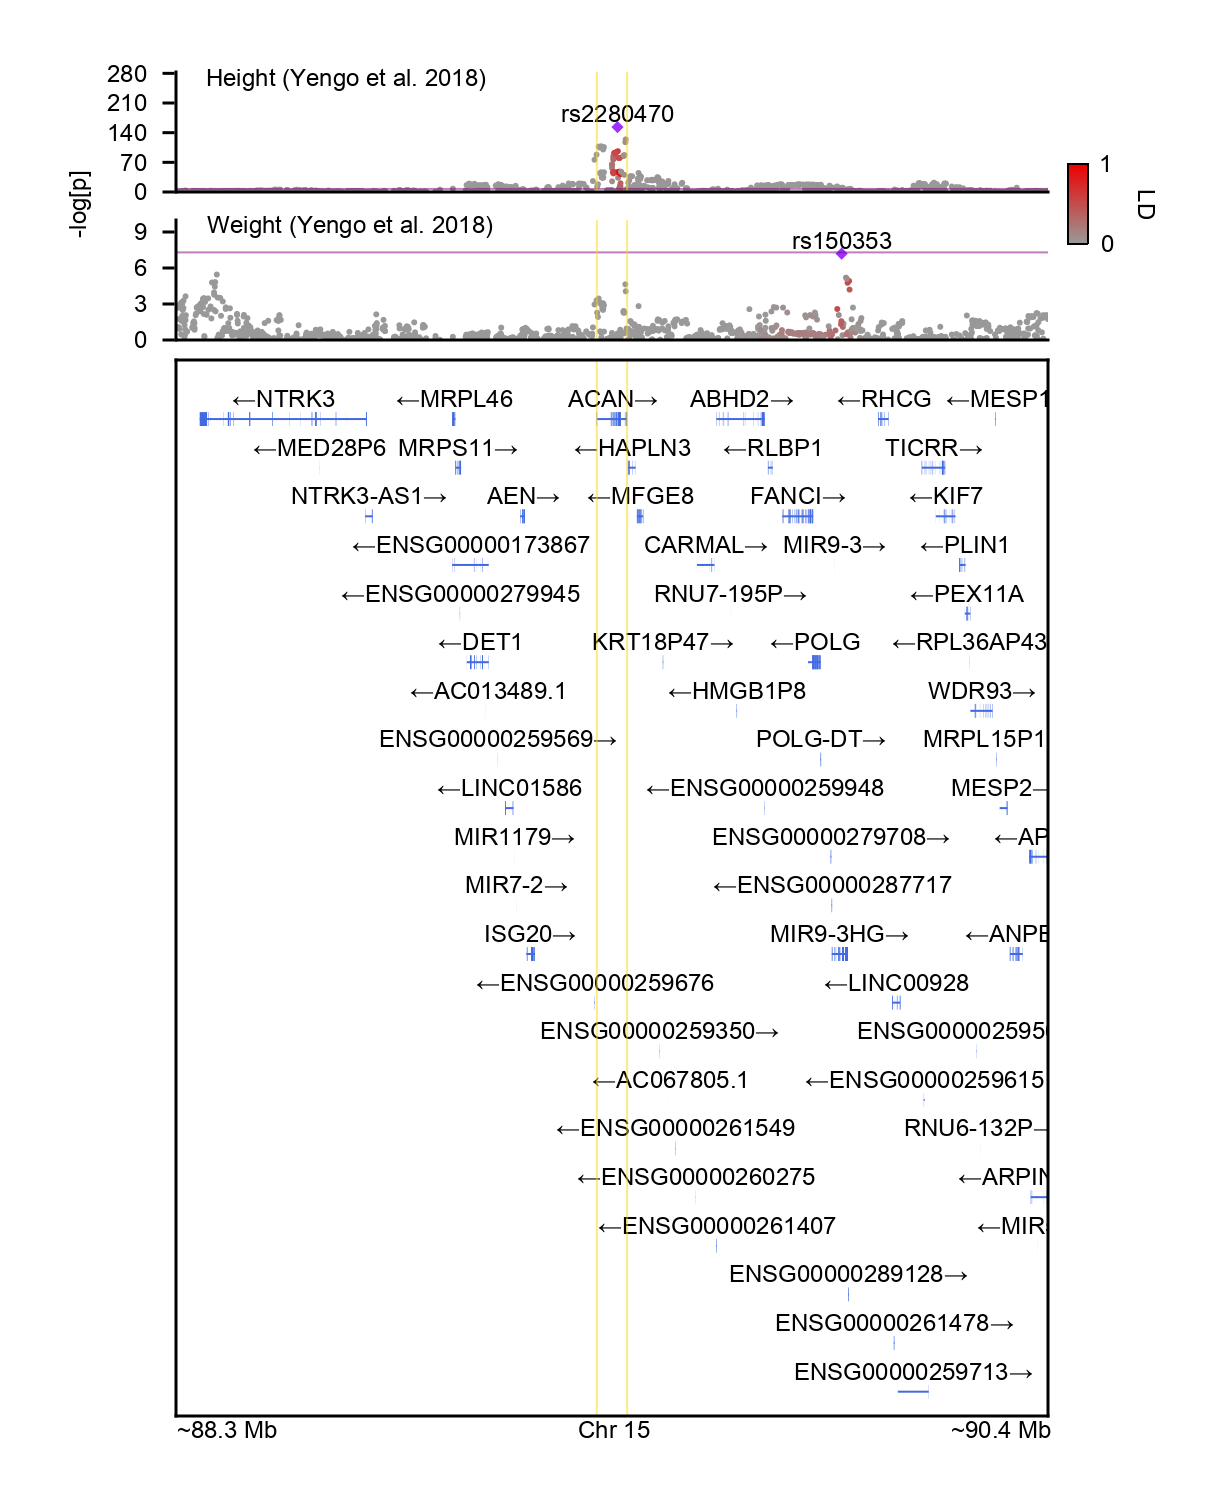
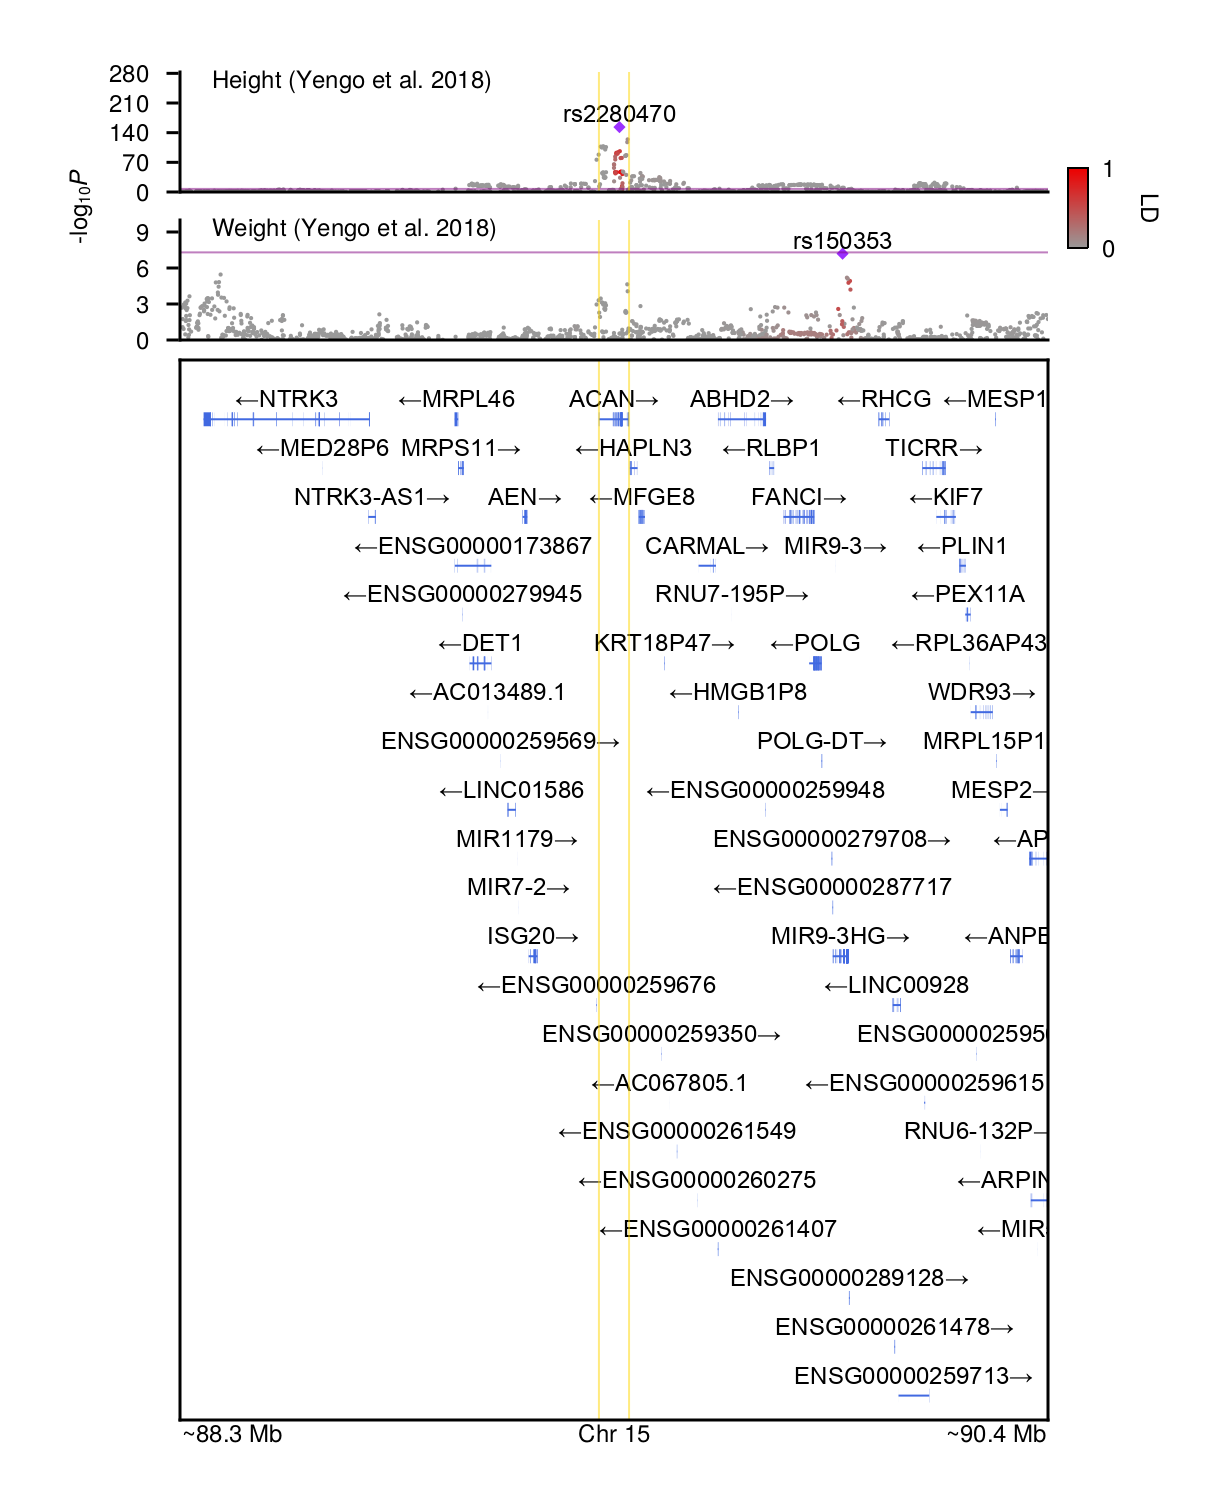
rich text

diff --git a/docs/src/examples/genes.md b/docs/src/examples/genes.md
@@ -23,7 +23,7 @@ set_theme!(font = "Arial")
 
 gene = "CACNA1G"
 chr, start, stop = GeneticsMakie.findgene(gene, gencode)
-f = Figure(resolution = (306, 792))
+f = Figure(size = (306, 792))
 ax = Axis(f[1, 1])
 ranges = [start - 1e5, stop + 1e5]
 rs = GeneticsMakie.plotgenes!(ax, chr, ranges[1], ranges[2], gencode)
@@ -36,7 +36,7 @@ f
 
 We can adjust the height of exons using the `height` keyword argument.
 ```julia
-f = Figure(resolution = (306, 792))
+f = Figure(size = (306, 792))
 ax = Axis(f[1, 1])
 rs = GeneticsMakie.plotgenes!(ax, chr, ranges[1], ranges[2], gencode; height = 0.1)
 GeneticsMakie.labelgenome(f[1, 1, Bottom()], chr, ranges[1], ranges[2])
@@ -48,7 +48,7 @@ f
 
 We can change the color of genes and text using the `genecolor` and `textcolor` keyword arguments, respectively.
 ```julia
-f = Figure(resolution = (306, 792))
+f = Figure(size = (306, 792))
 ax = Axis(f[1, 1])
 rs = GeneticsMakie.plotgenes!(ax, chr, ranges[1], ranges[2], gencode; height = 0.1, genecolor = :mediumorchid3, textcolor = :forestgreen)
 GeneticsMakie.labelgenome(f[1, 1, Bottom()], chr, ranges[1], ranges[2])
@@ -61,7 +61,7 @@ f
 Alternatively, we can visualize this locus by passing `gene` as a positional argument and 
 `window` as a keyword argument.
 ```julia
-f = Figure(resolution = (306, 792))
+f = Figure(size = (306, 792))
 ax = Axis(f[1, 1])
 rs = GeneticsMakie.plotgenes!(ax, gene, gencode; window = 1e5, height = 0.1, genecolor = :brown3)
 GeneticsMakie.labelgenome(f[1, 1, Bottom()], chr, ranges[1], ranges[2])
@@ -74,7 +74,7 @@ f
 There is no limit to the number of genes we can visualize. Below we visualize a larger 
 ± 2 Mb window around `gene`.
 ```julia
-f = Figure(resolution = (306, 792))
+f = Figure(size = (306, 792))
 ax = Axis(f[1, 1])
 rs = GeneticsMakie.plotgenes!(ax, gene, gencode; window = 2e6, height = 0.1)
 GeneticsMakie.labelgenome(f[1, 1, Bottom()], chr, start - 2e6, stop + 2e6)
@@ -96,7 +96,7 @@ by certain properties such as those that are protein coding or those that are
 significant in some sort of gene-level association. 
 
 ```julia
-f = Figure(resolution = (306, 792))
+f = Figure(size = (306, 792))
 ax = Axis(f[1, 1])
 rs = GeneticsMakie.plotgenes!(ax, chr, start, (gene, :brown3), gencode; window = 1e5, height = 0.1)
 GeneticsMakie.labelgenome(f[1, 1, Bottom()], chr, start - 1e5, start + 1e5)
@@ -107,7 +107,7 @@ f
 ![](../figs/CACNA1G-gene-highlight.png)
 
 ```julia
-f = Figure(resolution = (306, 792))
+f = Figure(size = (306, 792))
 ax = Axis(f[1, 1])
 rs = GeneticsMakie.plotgenes!(ax, chr, start, ([gene, "EPN3"], [:brown3, :forestgreen]), gencode; window = 1e5, height = 0.1)
 GeneticsMakie.labelgenome(f[1, 1, Bottom()], chr, start - 1e5, start + 1e5)
@@ -121,7 +121,7 @@ Finally, we can make additional modifications on top of the figure as needed usi
 [__Makie.jl__](https://makie.juliaplots.org/stable/).
 
 ```julia
-f = Figure(resolution = (306, 792))
+f = Figure(size = (306, 792))
 ax = Axis(f[1, 1])
 rs = GeneticsMakie.plotgenes!(ax, chr, start, gencode; window = 1e5, height = 0.1)
 GeneticsMakie.labelgenome(f[1, 1, Bottom()], chr, start - 1e5, start + 1e5)

diff --git a/docs/src/examples/locus.md b/docs/src/examples/locus.md
@@ -28,7 +28,7 @@ ranges = [start - 1e6, stop + 1e6]
 
 n = length(dfs)
 titles = ["Height (Yengo et al. 2018)", "Weight (Yengo et al. 2018)"]
-f = Figure(resolution = (306, 792))
+f = Figure(size = (306, 792))
 axs = [Axis(f[i, 1]) for i in 1:(n + 1)]
 for i in 1:n
     GeneticsMakie.plotlocus!(axs[i], chr, ranges[1], ranges[2], dfs[i])
@@ -43,7 +43,7 @@ Colorbar(f[1:n, 2], limits = (0, 1), ticks = 0:1:1, height = 20,
     colormap = [:gray60, :red2], label = "LD", ticksize = 0, tickwidth = 0,
     tickalign = 0, ticklabelsize = 6, flip_vertical_label = true,
     labelsize = 6, width = 5, spinewidth = 0.5)
-Label(f[1:n, 0], text = "-log[p]", fontsize = 6, rotation = pi / 2)
+Label(f[1:n, 0], rich("-log", subscript("10"), rich("P", font = :italic)), fontsize = 6, rotation = pi / 2)
 rowgap!(f.layout, 5)
 colgap!(f.layout, 5)
 for i in 1:(n + 1)
@@ -73,7 +73,7 @@ kgp = SnpData("data/1kg/kgp.chr15")
 We can then color variants by LD with the index/sentinel SNP by using the `ld` keyword argument.
 
 ```julia
-f = Figure(resolution = (306, 792))
+f = Figure(size = (306, 792))
 axs = [Axis(f[i, 1]) for i in 1:(n + 1)]
 for i in 1:n
     GeneticsMakie.plotlocus!(axs[i], chr, ranges[1], ranges[2], dfs[i]; ld = kgp)
@@ -88,7 +88,7 @@ Colorbar(f[1:n, 2], limits = (0, 1), ticks = 0:1:1, height = 20,
     colormap = [:gray60, :red2], label = "LD", ticksize = 0, tickwidth = 0,
     tickalign = 0, ticklabelsize = 6, flip_vertical_label = true,
     labelsize = 6, width = 5, spinewidth = 0.5)
-Label(f[1:n, 0], text = "-log[p]", fontsize = 6, rotation = pi / 2)
+Label(f[1:n, 0], rich("-log", subscript("10"), rich("P", font = :italic)), fontsize = 6, rotation = pi / 2)
 rowgap!(f.layout, 5)
 colgap!(f.layout, 5)
 for i in 1:(n + 1)
@@ -103,7 +103,7 @@ f
 We can also color variants by LD with the same SNP by using the `ld` keyword argument.
 
 ```julia
-f = Figure(resolution = (306, 792))
+f = Figure(size = (306, 792))
 axs = [Axis(f[i, 1]) for i in 1:(n + 1)]
 for i in 1:n
     GeneticsMakie.plotlocus!(axs[i], chr, ranges[1], ranges[2], dfs[i]; ld = (kgp, ("15", 89395626)))
@@ -118,7 +118,7 @@ Colorbar(f[1:n, 2], limits = (0, 1), ticks = 0:1:1, height = 20,
     colormap = [:gray60, :red2], label = "LD", ticksize = 0, tickwidth = 0,
     tickalign = 0, ticklabelsize = 6, flip_vertical_label = true,
     labelsize = 6, width = 5, spinewidth = 0.5)
-Label(f[1:n, 0], text = "-log[p]", fontsize = 6, rotation = pi / 2)
+Label(f[1:n, 0], rich("-log", subscript("10"), rich("P", font = :italic)), fontsize = 6, rotation = pi / 2)
 rowgap!(f.layout, 5)
 colgap!(f.layout, 5)
 for i in 1:(n + 1)

diff --git a/docs/src/examples/isoforms.md b/docs/src/examples/isoforms.md
@@ -19,7 +19,7 @@ isdir("figs") || mkdir("figs")
 set_theme!(font = "Arial")
 
 gene = "NRXN1"
-f = Figure(resolution = (306, 792))
+f = Figure(size = (306, 792))
 ax = Axis(f[1, 1])
 rs, chr, range1, range2 = GeneticsMakie.plotisoforms!(ax, gene, gencode; height = 0.1)
 GeneticsMakie.labelgenome(f[1, 1, Bottom()], chr, range1, range2)
@@ -32,7 +32,7 @@ f
 To save some space, we can plot the isoform labels on the left by using the `text` keyword argument. 
 
 ```julia
-f = Figure(resolution = (306, 792))
+f = Figure(size = (306, 792))
 ax = Axis(f[1, 1])
 rs, chr, range1, range2 = GeneticsMakie.plotisoforms!(ax, gene, gencode; height = 0.1, text = :l)
 GeneticsMakie.labelgenome(f[1, 1, Bottom()], chr, range1, range2)
@@ -47,7 +47,7 @@ We look at a different gene, _GRIN2A_.
 
 ```julia
 gene = "GRIN2A"
-f = Figure(resolution = (306, 792))
+f = Figure(size = (306, 792))
 ax = Axis(f[1, 1])
 rs, chr, range1, range2 = GeneticsMakie.plotisoforms!(ax, gene, gencode; isoformcolor = :forestgreen, height = 0.1)
 GeneticsMakie.labelgenome(f[1, 1, Bottom()], chr, range1, range2)
@@ -60,7 +60,7 @@ f
 We can change the order of isoforms by using the `orderby` keyword argument.
 
 ```julia
-f = Figure(resolution = (306, 792))
+f = Figure(size = (306, 792))
 ax = Axis(f[1, 1])
 rs, chr, range1, range2 = GeneticsMakie.plotisoforms!(ax, gene, gencode; orderby = ["ENST00000675189", "ENST00000463531"], isoformcolor = :forestgreen, height = 0.1)
 GeneticsMakie.labelgenome(f[1, 1, Bottom()], chr, range1, range2)
@@ -71,7 +71,7 @@ f
 ![](../figs/GRIN2A-isoform-order.png)
 
 ```julia
-f = Figure(resolution = (306, 792))
+f = Figure(size = (306, 792))
 ax = Axis(f[1, 1])
 rs, chr, range1, range2 = GeneticsMakie.plotisoforms!(ax, gene, gencode; orderby = ["ENST00000675189", "ENST00000463531"], 
     highlight = (["ENST00000675398", "ENST00000562109"], fill(:brown3, 2)), isoformcolor = :forestgreen, height = 0.1)

diff --git a/docs/src/examples/gwas.md b/docs/src/examples/gwas.md
@@ -18,7 +18,7 @@ titles = ["Height (Yengo et al. 2018)", "Weight (Yengo et al. 2018)"]
 ```
 
 ```julia
-f = Figure(resolution = (408, 792))
+f = Figure(size = (408, 792))
 axs = [Axis(f[i, 1]) for i in 1:length(titles)]
 for i in eachindex(titles)
     GeneticsMakie.plotgwas!(axs[i], dfs[i])
@@ -55,7 +55,7 @@ f
 We can color even and odd chromosomes with different colors by using the `chromcolors` keyword argument. 
 
 ```julia
-f = Figure(resolution = (408, 792))
+f = Figure(size = (408, 792))
 axs = [Axis(f[i, 1]) for i in 1:length(titles)]
 for i in eachindex(titles)
     GeneticsMakie.plotgwas!(axs[i], dfs[i]; linecolor = nothing, scattercolor = nothing, 
@@ -73,7 +73,7 @@ f
 
 We can then use `GeneticsMakie.plotqq!` to draw QQ plots.
 ```julia
-f = Figure(resolution = (408, 792))
+f = Figure(size = (408, 792))
 axs = [Axis(f[2, i]) for i in 1:length(titles)]
 for i in eachindex(titles)
     GeneticsMakie.plotqq!(axs[i], dfs[i]; ystep = 5)

diff --git a/docs/src/examples/gtf.md b/docs/src/examples/gtf.md
@@ -29,7 +29,7 @@ gencode = CSV.read("data/gencode/$(file)", DataFrame; delim = "\t", comment = "#
     GRCh37 genomic coordinates. Make sure to use the matching human genome build when
     visualizing your results. 
 
-The ninth column of a [GTF file](https://uswest.ensembl.org/info/website/upload/gff.html) 
+The ninth column of a [GTF file](https://www.gencodegenes.org/pages/data_format.html) 
 contains rich information about features, so we can parse this column.
 ```julia
 GeneticsMakie.parsegtf!(gencode)
